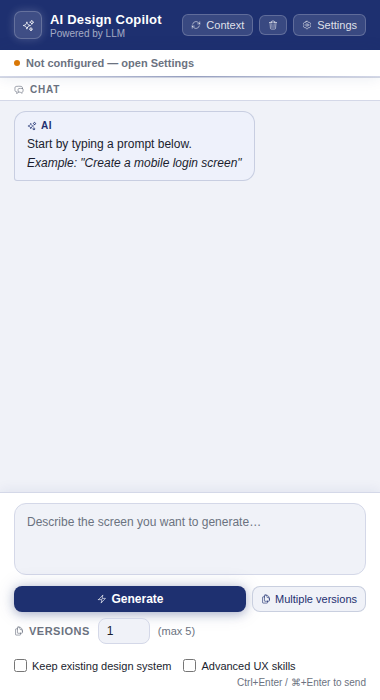
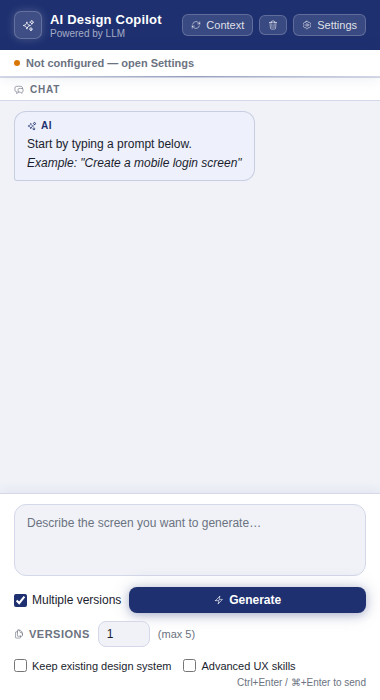
refactor: switch multiple versions control to checkbox workflow

Changed region(s): [[0.0289, 0.81, 0.9842, 0.93], [0.0868, 0.72, 0.6658, 0.78], [0.4053, 0.87, 0.5211, 0.93]]

diff --git a/ui.html b/ui.html
@@ -200,7 +200,7 @@
       align-items: center;
       gap: 12px;
       flex-wrap: wrap;
-      padding-top: 7px;
+      padding-top: 4px;
     }
 
     .checkbox-option {
@@ -535,38 +535,20 @@
       display: flex;
       align-items: center;
       gap: 8px;
+      margin-top: 8px;
       margin-bottom: 8px;
     }
 
-    /* ── Versions toggle button ───────────────────────────────── */
-    .btn--versions {
-      background: transparent;
-      color: var(--text-muted);
-      border: 1px solid var(--border);
-      padding: 4px 8px;
-      font-size: 11px;
-      border-radius: var(--radius);
-      display: inline-flex;
-      align-items: center;
-      gap: 4px;
-      cursor: pointer;
-      font-family: var(--font);
-      font-weight: 500;
-      transition: background 0.15s, color 0.15s, border-color 0.15s;
-    }
-    .btn--versions:hover,
-    .btn--versions.active {
-      background: var(--bg);
-      color: var(--primary);
-      border-color: var(--border-aura);
-    }
-
-    .variants-row {
+    .input-controls {
       display: flex;
       align-items: center;
+      justify-content: space-between;
       gap: 8px;
-      padding-top: 6px;
+      margin-top: 8px;
+      flex-wrap: wrap;
     }
+
+    .versions-checkbox { font-size: 12px; }
 
     textarea {
       width: 100%;
@@ -593,7 +575,8 @@
     .input-actions {
       display: flex;
       gap: 6px;
-      margin-top: 8px;
+      flex: 1;
+      min-width: 150px;
     }
 
     /* ── Buttons ──────────────────────────────────────────────── */
@@ -1151,16 +1134,18 @@
   <section class="input-section">
     <textarea id="prompt-input" placeholder="Describe the screen you want to generate…"
               aria-label="Prompt"></textarea>
-    <div class="input-actions">
-      <button class="btn btn--primary" id="generate-btn" type="button">
-        <span id="spinner" class="spinner hidden"></span>
-        <svg class="icon icon-sm" id="generate-icon" aria-hidden="true"><use href="#icon-bolt"/></svg>
-        <span id="generate-label">Generate</span>
-      </button>
-      <button class="btn--versions" id="versions-toggle-btn" type="button" aria-expanded="false" title="Set number of versions">
-        <svg class="icon icon-sm" aria-hidden="true"><use href="#icon-clone"/></svg>
+    <div class="input-controls">
+      <label class="checkbox-option versions-checkbox" title="Enable generating multiple versions">
+        <input type="checkbox" id="multiple-versions-toggle" />
         Multiple versions
-      </button>
+      </label>
+      <div class="input-actions">
+        <button class="btn btn--primary" id="generate-btn" type="button">
+          <span id="spinner" class="spinner hidden"></span>
+          <svg class="icon icon-sm" id="generate-icon" aria-hidden="true"><use href="#icon-bolt"/></svg>
+          <span id="generate-label">Generate</span>
+        </button>
+      </div>
     </div>
     <div class="variants-row hidden" id="variants-row">
       <label class="settings__label" for="variants-input">

diff --git a/src/ui.ts b/src/ui.ts
@@ -167,16 +167,16 @@ function setupEventListeners(): void {
   apiKeyToggle.addEventListener("click", toggleApiKeyVisibility);
 
   // ── Multiple versions toggle ────────────────────────────────────────────
-  const versionsToggleBtn = document.getElementById("versions-toggle-btn");
-  const variantsRow = document.getElementById("variants-row");
-  if (versionsToggleBtn && variantsRow) {
-    versionsToggleBtn.addEventListener("click", () => {
-      const expanded = !variantsRow.classList.contains("hidden");
-      variantsRow.classList.toggle("hidden", expanded);
-      versionsToggleBtn.classList.toggle("active", !expanded);
-      versionsToggleBtn.setAttribute("aria-expanded", String(!expanded));
-    });
-  }
+  const multipleVersionsCheckbox = getEl<HTMLInputElement>("multiple-versions-toggle");
+  const variantsRow = getEl<HTMLDivElement>("variants-row");
+  multipleVersionsCheckbox.addEventListener("change", () => {
+    const enabled = multipleVersionsCheckbox.checked;
+    variantsRow.classList.toggle("hidden", !enabled);
+    if (!enabled) {
+      const variantsInput = getEl<HTMLInputElement>("variants-input");
+      variantsInput.value = "1";
+    }
+  });
 
   // ── Provider selection ─────────────────────────────────────────────────
   const providerSelect = document.getElementById("provider-select") as HTMLSelectElement | null;
@@ -518,6 +518,8 @@ function validateApiKey(config: ModelConfig): string | null {
 }
 
 function getVariantCount(): number {
+  const toggle = document.getElementById("multiple-versions-toggle") as HTMLInputElement | null;
+  if (!toggle?.checked) return 1;
   const el = getEl<HTMLInputElement>("variants-input");
   const val = parseInt(el.value, 10);
   return isNaN(val) || val < 1 ? 1 : Math.min(val, 5);

diff --git a/README.md b/README.md
@@ -21,7 +21,7 @@ Supported providers:
     </td>
     <td align="center" width="33%">
       <strong>Main view — Multiple versions</strong><br/>
-      Versions counter revealed by the toggle button
+      Versions counter revealed by the checkbox
       <br/><br/>
       <img src="screenshots/main-view-versions.png" alt="Main view — Multiple versions panel expanded" width="220"/>
     </td>
@@ -107,7 +107,7 @@ The plugin UI is split into two distinct views:
 | **Header** | Brand logo, Context refresh button, Clear chat button, **Settings** button |
 | **Info bar** | Connection dot (🟠 no key / 🟢 ready) + current provider · model label |
 | **Chat** | Scrollable conversation history; shows an AI-bubble placeholder when empty |
-| **Input** | Prompt textarea · **Generate** button · **Multiple versions** toggle (reveals version counter) · **Keep existing design system** checkbox · **Advanced UX skills** checkbox |
+| **Input** | Prompt textarea · **Multiple versions** checkbox (reveals version counter) · **Generate** button · **Keep existing design system** checkbox · **Advanced UX skills** checkbox |
 
 ### Settings view (full-screen overlay)
 
